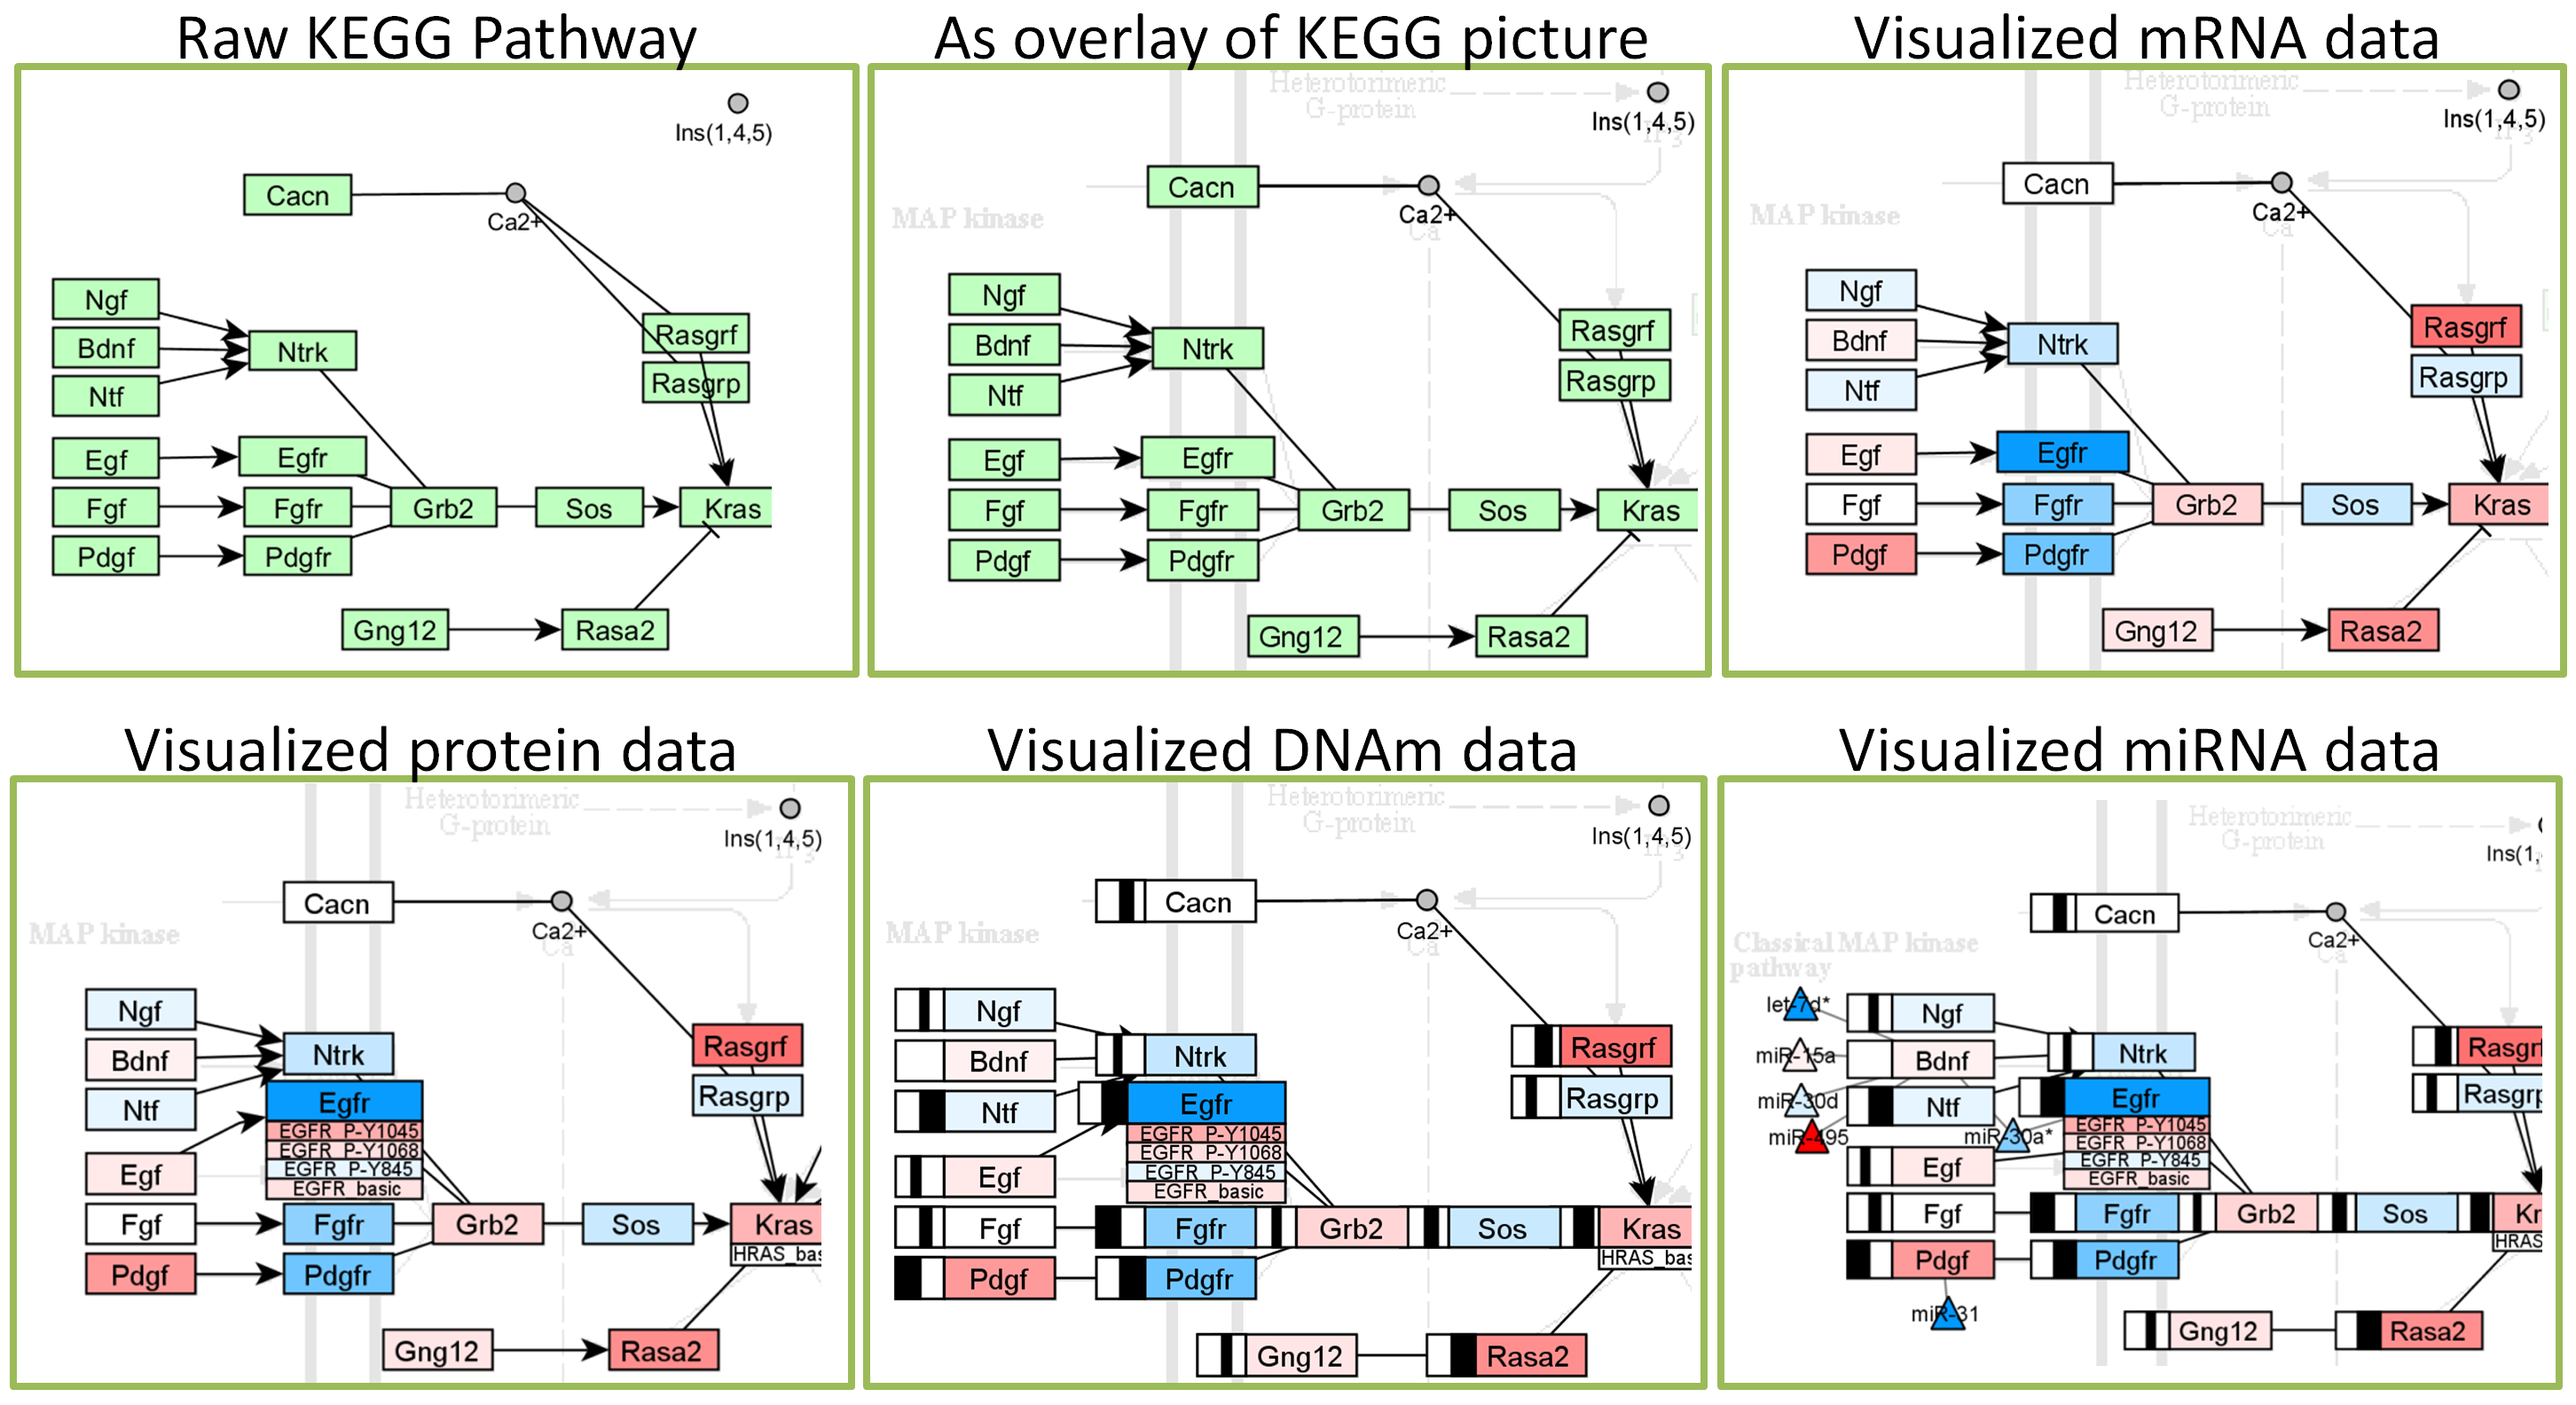
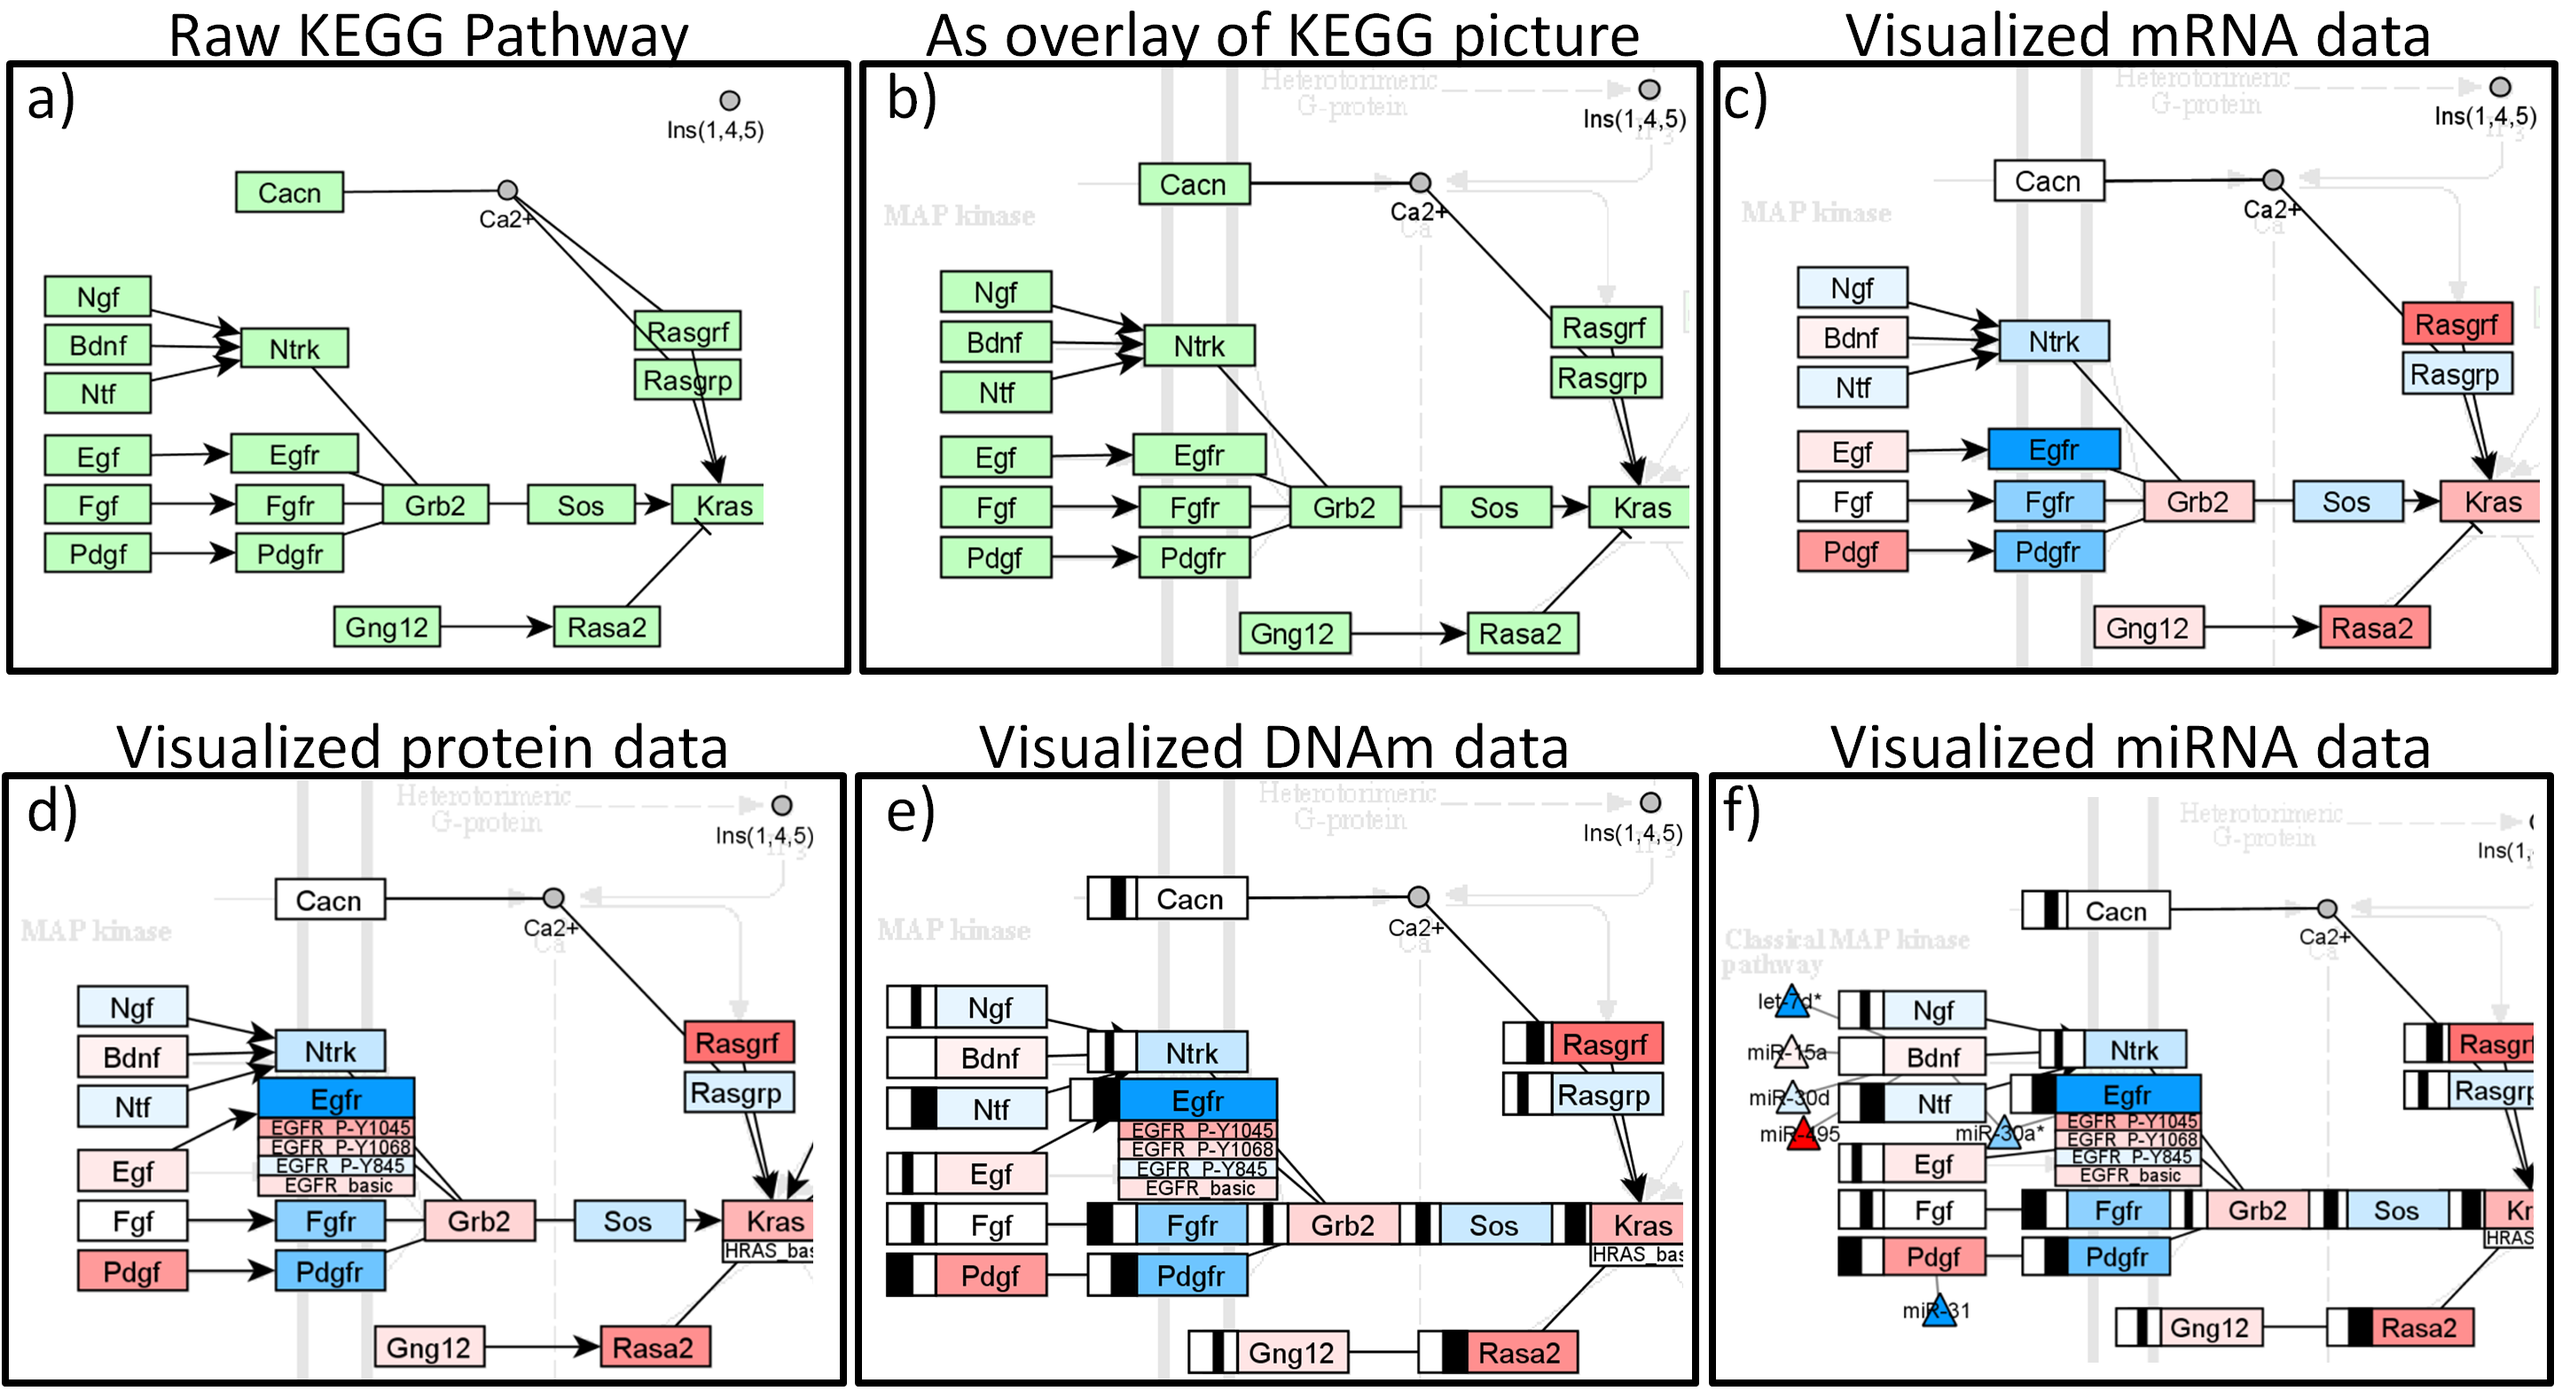
Paper ECCB12: Weitergearbeitet...

diff --git a/doc/Publications/publication_ECCB12/document.tex b/doc/Publications/publication_ECCB12/document.tex
@@ -25,6 +25,7 @@ Text  Text Text Text Text Text Text Text Text Text  Text Text Text Text Text Tex
 Text  Text Text Text Text Text Text Text Text Text  Text Text Text Text Text Text Text Text Text  Text Text Text Text Text Text Text Text Text  Text Text Text Text Text Text
 
 %\section{Availability:}
+%The described method is included in the InCroMAP application, which is available at \href{TODO}{TODO}.
 
 \section{Contact:} \href{clemens.wrzodek@uni-tuebingen.de}{clemens.wrzodek@uni-tuebingen.de}
 \end{abstract}
@@ -34,9 +35,9 @@ Text  Text Text Text Text Text Text Text Text Text  Text Text Text Text Text Tex
 The first generation of microarray platforms was developed as a high-throughput technique for profiling the transcriptome of diverse biological systems (i.e., cells, organs or organisms) under various experimental conditions (TODO: Refs. Golub, etc.). As these traditional gene-centered arrays were mostly limited to mRNA transcripts, the vast majority of visualization tools are still focused on mRNA datasets (Refs.). To date, a plethora of different microarray platforms are readily available. These include gene-centered platforms which rely on current genome annotations as well as unbiased tiling arrays which interrogate large non-repetitive regions of the genome. Diverse types of platforms have been specificly designed for the interrogation of different genomic features, ranging from mRNA or miRNA transcripts, through  proteins or protein modifications, to relevant functional elements such as exons, SNPs or promoters (TODO: Refs). In addition to arrays serving for the quantification of global gene expression on the RNA or protein level, also epigenetic modifications such as DNA methylation (DNAm) can be monitored on a genome-wide level using microarray technology \citep{Hoheisel2006}.
 % Motivation für die Entwicklung des Tools
 Several tools exist for the visual inspection of datasets from individual platforms (Refs.). However, the current inventory of publicly available tools, which are capable of integrating and jointly visualizing data from multiple microarray platforms, is still very limited.
-Here, we introduce a method, for integrated pathway-centered visualization of datasets generated from the same biological samples using different microarray platforms, which interrogate complementary genomic and epigenomic features. 
+Here, we introduce a method, for integrated pathway-centered visualization of datasets generated from the same biological samples using different microarray platforms, which interrogate complementary genomic and epigenomic features.
 % Warum ist PW-basierte visualisierung, grade f�r mehrere Datentypen, besser als UCSC genome browser oder anderes.
-In contrast to commonly used region-based visualization methods (e.g., \citep[see][]{UCSCBrowser}, TODO: weitere Beispiele und Zitate), we propose to visualize the microarray data in the context of specific signaling or metabolic pathways, which can in many cases be more easily related to the biological problem under study than individual genes or genomic regions.  
+In contrast to commonly used region-based visualization methods (e.g., \citep[see][]{UCSCBrowser}, TODO: weitere Beispiele und Zitate), we propose to visualize the microarray data in the context of specific signaling or metabolic pathways, which can in many cases be more easily related to the biological problem under study than individual genes or genomic regions.
 % Integrated oder single platform enrichment zur Identifikation der relevanten Pathways
 The pathways which are relevant for the conducted experiment can be deduced from the differentially expressed genes using pathway enrichment analysis. For this purpose, candidate pathways which are putatively involved in the studied biological phenomenon are typically ranked according to p-values resulting from a hypergeometric test for overrepresentation. The results are usually presented to the user as a sorted table or barplot which does not show any superordinate relations of the pathways detected as enriched with differentially expressed genes. In addition to this traditional approach, we also implemented an alternative method, which provides the user with a more structured view of the metabolic pathways linked to a certain microarray experiment. Owing to the hierarchical structure of the KEGG PATHWAY database, InCroMAP can visualize the enrichments computed for each individual metabolic pathway in the context of the higher-order overall metabolic pathway map compiled by KEGG (http://www.genome.jp/kegg/pathway/map/map01100.html). Starting from either a ranked pathway table or a colored meta-pathway map, individual pathways can be visualized in InCroMAP and overlaid with microarray data from multiple platforms, to facilitate thorough visual inspection of the measured pathway alterations. In contrast to previous work (TODO: Refs zu Cytoscape, Explain, etc.), InCroMAP offers convenient functions to overlay a pathway plot with sample-matched microarray data from platforms measuring gene regulation on mRNA, miRNA, DNAm and protein level.
 
@@ -47,7 +48,7 @@ We present a novel method that includes visualizing pathways and changing the pa
 
 % The amount of available expression datasets is growing rapidly from day to day. But not only the
 
-There are other tools, specialized in pathway analysis (e.g., Ingenuity, ), or in pathway visualization (Cytoscape, KEGG Atlas). Some even offer visualizing data in a pathway (GenMAPP, KEGG Array, Symony programm). 
+There are other tools, specialized in pathway analysis (e.g., Ingenuity, ), or in pathway visualization (Cytoscape, KEGG Atlas). Some even offer visualizing data in a pathway (GenMAPP, KEGG Array, Symony programm).
 
 TODO: das h�chste der gef�hle sind methoden um 2 farben in 1 knoten, aber keiner kann DNA methylation oder sogar miRNA knoten rein.
 
@@ -70,6 +71,8 @@ This method starts by translating KGML documents from the KEGG PATHWAY database 
 \subsection{Pathway visualization}
 
 The basic prerequisite for pathway-based visualization is visualizing the pathway itself. We are using KEGGtranslator \citep[see][]{Wrzodek2011} to perform a basic conversion of the KEGG KGML documents to GraphML and to annotate all nodes with entrez gene identifiers. In short, KEGGtranslator converts all KGML entries to nodes and all relations to edges. Some basic errors are corrected automatically and appropriate shapes, colors and labels are inferred. Then, all nodes are annotated with various identifiers and further information. The resulting document is the base for our visualizations. At this point, it is important to note that KEGG usually draws referenced pathways as rectangular nodes with rounded corners, small molecules as circles, and single gene products (e.g., enzymes) as well as gene families as rectangles. This means that one rectangular node can consist of multiple different enzymes, depending on the KEGG definition.
+
+TODO: Auch Schritt von figure a) zu b) erwaehnen. Manche Informationen manchmal nur in grafischen abbildungen enthalten, deshalb original KEGG bild als hintergrund nehmen und den eigentlichen graphen als overlay schicht darueber anzeigen. Auf figure 1 a), b) fuer beispiel verweisen.
 
 \subsection{Visualization of messenger RNA expression data}
 
@@ -94,11 +97,13 @@ Einzelner Wert mit binning und $\frac{\sum\limits_{i=1}^n\log_2 x}{n}$, f�r fo
 
 
 \subsection{Visualization of micro RNA expression data}
-erst auf Targets eingehen.
 
-Dann wie targets in graph gef�gt werden
+Visualizing micro RNA (miRNA) datasets is not straightforward, because pathways usually do not contain miRNAs. Pathway mainly consist of small molecules and enzymes, which are products of protein coding genes. Therefore, to add miRNAs to a pathway, a connection must be established from miRNAs to to protein coding genes.
 
-Dann wie knoten eingef�rbt werden.
+Biologically, miRNAs are small non-coding RNAs that regulate gene expression by binding to mRNA targets and somehow inducing a degradation of the targeted mRNA \citep{Bartel2004}. The targets for each miRNA must be known and there are several databases that contain information about experimentally verified miRNA targets (e.g., miRecords \citep[see][]{miRecords}, miRTarBase \citep[see][]{miRTarBase}, TarBase \citep[see][]{TarBase}) or predicted miRNA targets \citep{Alexiou2009}. We use these miRNA target databases to perform the linkage between miRNAs and pathways.
+
+Pathway-based visualization of miRNA datasets is done by annotating all known targets to every miRNA in the input dataset. Then all miRNAs that have targets in any pathway that should be visualized are added to the pathway as small triangular nodes. The relation to the pathway is then established by creating an edge from every miRNA to every target in the pathway. The triangular miRNA nodes themselves are colored according to their expression, as described for mRNA. 
+This leads to an integrated visualization that contains miRNA expression, miRNA target relation information and (if also mRNA data is visualized) the expression of the targeted mRNA. Figure~\ref{fig:visualization_steps}f) shows an example result of the described procedure.
 
 
 \subsection{OFFENE FRAGEN}
@@ -122,14 +127,20 @@ hier erw�hnen, dass methoden in InCroMAP drin sind? oder lieber in conslutions
 \begin{figure*}[t]
 \centering
 \includegraphics[width=1.0\textwidth]{figures/visualization-steps.png}
-\caption{MAPK signaling pathway.}\label{fig:visualization_steps}
+\caption{
+TODO: Bild zeigt AUSSCHNITT des MAPK signaling pathway. Alle Schritte von a) bis f) kurz erlauetern und kurz sagen, dass f) quasi dem finalen Bild dieser Methode entspricht. }\label{fig:visualization_steps}
 \end{figure*}
 
+
+TODO:
+ - Sollen wie noch "Table 1" aus MARCAR D4.1 reinnehmen (tabellarische erklaerung der visualisierung aller 4 datentypen mit beispielen), und/oder
+ - Ein schoenes Gesamtbild e.g. von cell cycle oder wnt signaling oder sowas
+[ - den metabolic pathway overview mit eingefarbten knoten] Dies nur wenn diese Methode auch noch bestandteil dieses papers wird (muesste noch bei methoden usw. aufgenommen und erklaert werden).
 
 
 \section{Conclusion}
 
-TODO
+TODO: Zusammenfassung, vor allem Einzigartigkeit der Methode (insb. miRNA, (DNAm)) herausstellen, und kurze interpretation eines finalen bildes liefern ("man sieht in einem bild pathway informationen, miRNA relationen, expressionsdaten von miRNA, mRNA, bla; und sonst ist meist nach dem enrichment schluss bzw mRNA einfarbung bereits das maximum moegliche").
 
 
 
